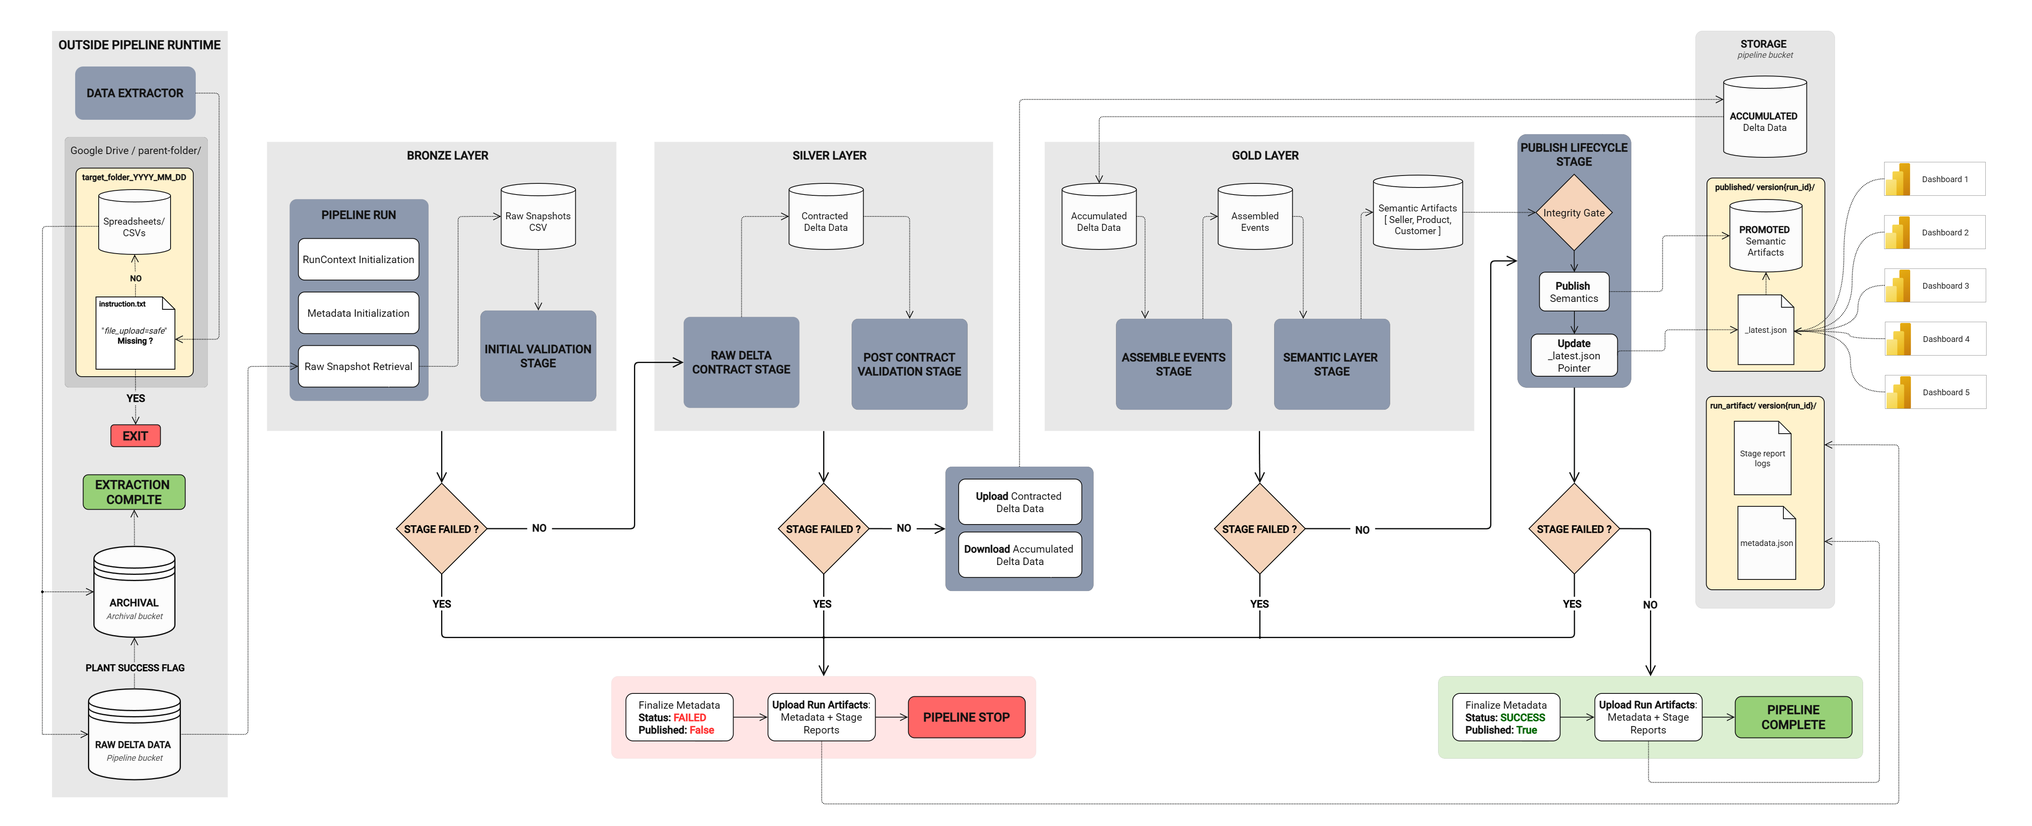
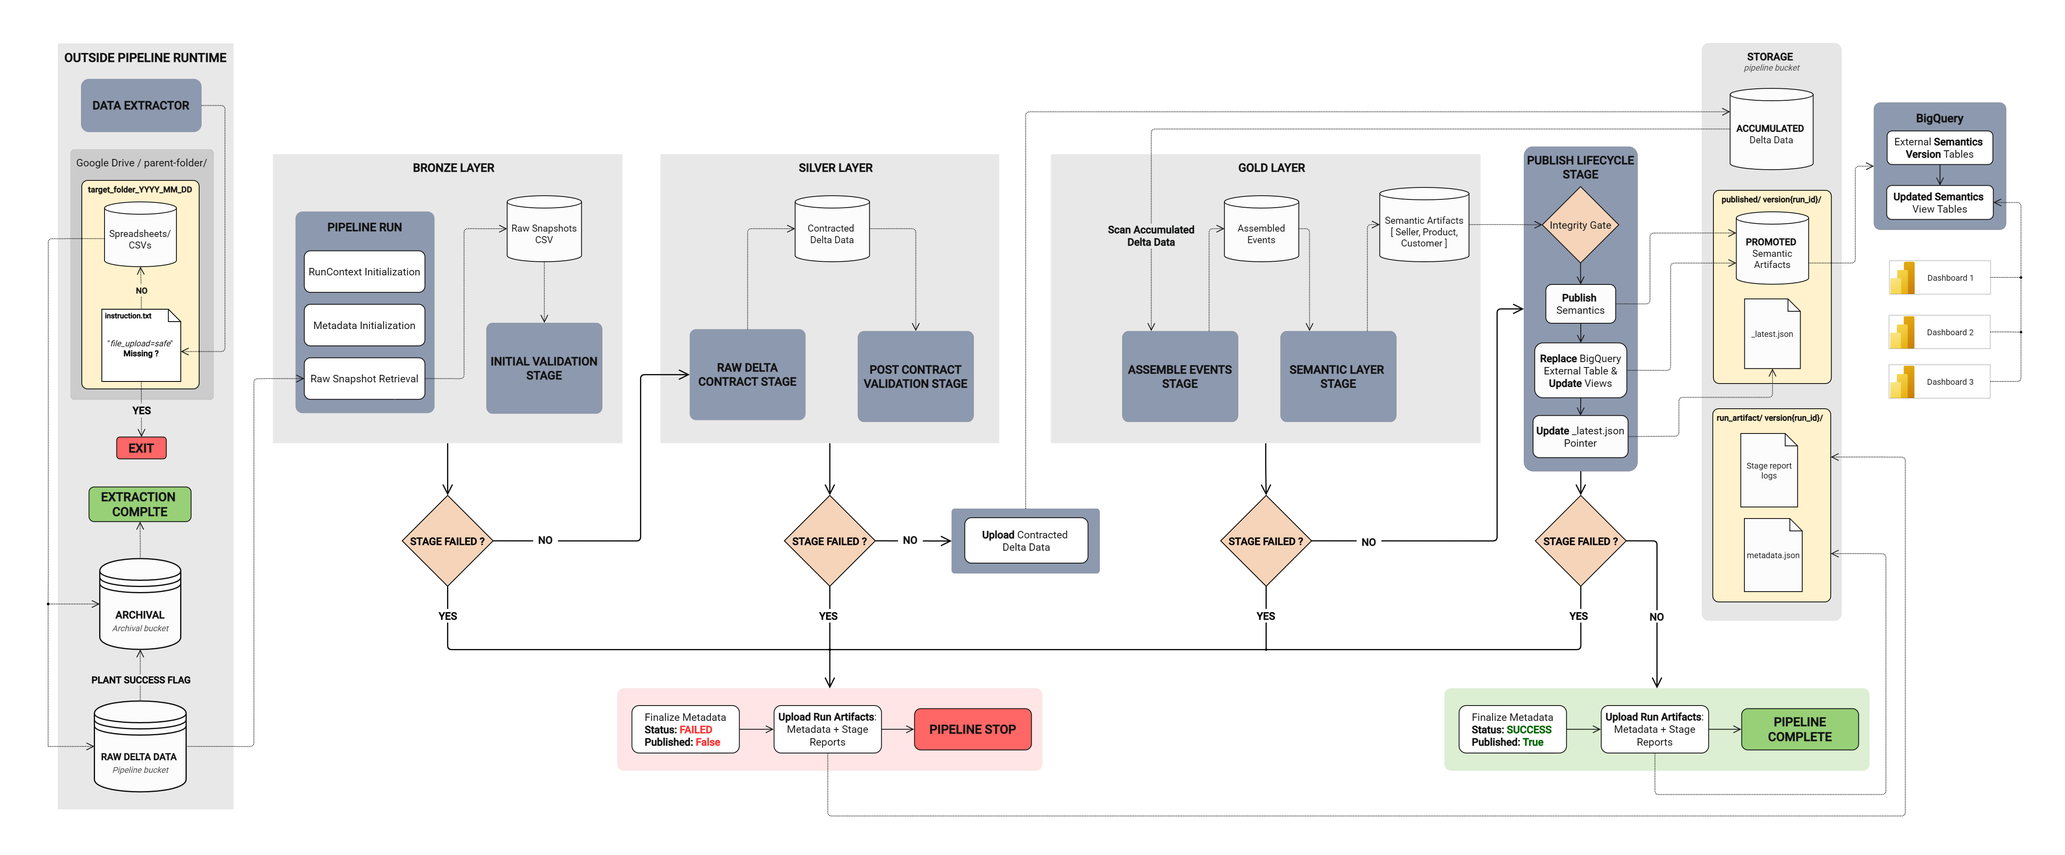
docs: align project documentation and benchmarks with new pipeline architecture

diff --git a/data_pipeline/semantic/semantic_executor.py b/data_pipeline/semantic/semantic_executor.py
@@ -168,9 +168,13 @@ def orchestrate_module(
 
         except FileExistsError as e:
             log_error(f"Unexpected table returned {table_name}: {e}", report)
+            report["status"] = "failed"
+            return False
 
         except Exception as e:
             log_error(f"Unexpected error processing {table_name}: {e}", report)
+            report["status"] = "failed"
+            return False
 
         finally:
             if "lf_frozen" in locals():

diff --git a/data_pipeline/assembly/assembly_executor.py b/data_pipeline/assembly/assembly_executor.py
@@ -145,6 +145,8 @@ def orchestrate_event_assembly(run_context: RunContext, report: Dict) -> bool:
 
     except Exception as e:
         log_error(f"Unexpected error processing event assembly: {e}", report)
+        report["status"] = "failed"
+        return False
 
     finally:
         if "lf_derived" in locals():

diff --git a/README.md b/README.md
@@ -16,9 +16,11 @@ This project solves that challenge by delivering a highly resilient, event-drive
 
 To eliminate the risk of cross-run data contamination and memory bloat, the pipeline employs a defensive state-management strategy where local compute environments are strictly temporary:
 * **Stateless Orchestration:** Every execution operates within an isolated, deterministic `run_id` workspace that is aggressively purged post-run.
+* **Primitive Integer Pipeline:** Optimizes high-volume joins by mapping 36-byte UUID strings to 4-byte UInt32 surrogates, reducing join-key memory overhead by ~16x and protecting the serverless memory ceiling.
 * **Cloud Sync & Purge:** After processing data into the Silver layer, the system syncs the output to Cloud Storage, purging the local environment.
-* **Historical Context Pull:** It then safely re-downloads the complete historical state for Gold layer aggregation, ensuring every run builds analytical models in a clean, untainted environment.
+* **Historical Context Pull:** It then safely streams the complete historical state for Gold layer aggregation, ensuring every run builds analytical models in a clean, untainted environment.
 * **Linear Gating:** Stages are strictly gated; failure at any tier (Ingestion, Contract, or Assembly) prevents downstream processing and ensures partial data is never promoted.
+* **BigQuery Atomic Swap:** Final semantic models are delivered via Authorized Views that atomically swap pointers to new data versions, providing zero-downtime connectivity for BI consumers.
 * **Resource-Optimized Compute:** Leverages a highly efficient lazy-evaluation engine to process large-scale datasets seamlessly within the strict memory constraints of serverless environments.
 
 ### Event-Driven Cloud Infrastructure
@@ -42,23 +44,35 @@ The pipeline does not just move data; it actively defends the analytical layer f
 
 **Silver (The Contract Layer)**
 * **Philosophy (Subtractive-Only Logic):** The pipeline never guesses, imputes, or "repairs" bad data. If a record violates the contract, it is explicitly dropped, and the loss is logged in the telemetry report.
+* **Primitive Integer Pipeline:** Optimizes downstream high-volume joins by mapping 36-byte UUID strings to 4-byte UInt32 surrogates, reducing join-key memory overhead by ~16x and ensuring the pipeline stays within serverless memory constraints.
 * **Role-Based Rules:** Tables are classified by role (`event_fact`, `transaction_detail`, `entity_reference`) and subjected to specific registry rules (e.g., deduplication, non-null assertions).
 * **Referential Integrity (Cascade Cleanup):** The pipeline tracks invalidated parent IDs (e.g., malformed `order_id`s) and propagates them downstream. If an order is dropped, all associated child records (like line items) are cascade-dropped to prevent orphan data from polluting joins.
 * **Schema Freeze:** Output files are strictly cast to predefined data types and projected to contain only approved columns before being written to Cloud Storage.
 
 **Gold (The Semantic Layer)**
-* **Purpose:** Business-ready Fact and Dimension tables modeled for entity-centric and cohort analysis (Customers, Sellers, Products).
-* **Strict Grain Enforcement:**
-    * **Temporal:** All fact tables are deterministically aligned to an ISO-Week grain (`W-MON`).
-    * **Entity:** The engine validates that Dimension tables contain exactly one row per `Entity_ID`, and Fact tables contain exactly one row per `(Entity_ID, order_year_week)`.
-* **Lineage Integrity:** The Semantic builder aggressively checks that the assembled data belongs to a single `run_id`. Cross-run data contamination triggers a terminal failure, preventing poisoned data from ever reaching production.
+* **Purpose:** High-fidelity analytical modeling through advanced integration and entity-centric aggregation. The Gold layer is partitioned into two distinct stages to maintain a strict separation between integration logic and business metrics.
+* **Stage I: Assembly (The Analytical Backbone)**
+    * **Role:** Integrates normalized relational tables (`orders`, `items`, `payments`) into a unified, analytical "Event" dataset.
+    * **Invariants:** Guaranteed 1:1 grain per `order_id_int`. It performs analytical flattening and calculates fulfillment lead times while enforcing referential integrity (e.g., purging orders without items).
+    * **Dimension Extraction:** Generates strictly deduplicated reference tables for Customers and Products, ensuring a single source of truth for entity attributes.
+* **Stage II: Semantic (The Business Logic Engine)**
+    * **Role:** Transforms unified order-grain events into specialized Fact and Dimension modules tailored for cohort and entity-centric analysis (Sellers, Customers, Products).
+    * **Strict Grain Enforcement:**
+        * **Temporal:** All fact tables are deterministically aligned to an ISO-Week grain (`W-MON`).
+        * **Entity-Fact:** Strictly 1 row per `(Entity_ID, order_year_week)`.
+        * **Entity-Dim:** Strictly 1 row per `Entity_ID`.
+* **Technical Invariants:**
+    * **Integer Key Optimization:** Both stages leverage the Primitive Integer Pipeline for grouping and joins, maintaining a constant memory profile by avoiding string-based hash tables.
+    * **Schema Freeze:** Both stages output files are strictly cast to predefined data types and projected to contain only approved columns
 
 ### Validation Gates & Deployment Integrity
 
 * **Dual-Pass Validation Strategy:**
     * **Initial Validation (Raw Gate):** The orchestrator evaluates raw snapshots. At this stage, `warnings` (like duplicate IDs or nulls) are tolerated and passed down to the Contract Stage for subtractive cleanup. Only fatal structural errors abort the run.
     * **Post-Contract Revalidation (Silver Gate):** After contract rules are applied, the system re-runs validation. In this phase, `warnings` are escalated to fatal. Because the contract stage guarantees a clean schema, any remaining warnings trigger a terminal `RuntimeError`, halting the pipeline immediately to prevent downstream corruption.
-* **Atomic Publishing Lifecycle:** The pipeline protects the Gold layer by writing intermediate analytical models to isolated temporary directories during computation. Only when *all* semantic modules successfully finish processing does the system execute an atomic publish via `latest_version.json` pointer updates, guaranteeing that partial or incomplete data is never served to dashboards.
+* **Atomic Publishing Lifecycle:** 
+    * **Staged Execution (Isolated Buffer):** The pipeline protects the Gold layer by writing intermediate analytical models to isolated temporary directories during computation. Only when all semantic modules successfully finish processing does the system execute a multi-system atomic publish.
+    * **Atomic Deployment (BigQuery View Swap):** This multi-system swap redirects BigQuery Authorized Views to fresh External Tables and updates the latest_version.json manifest, ensuring BI tools like Power BI always query complete, validated datasets without downtime.
 * **Comprehensive Telemetry:**
     * **End-to-End Traceability:** A single `run_id` is propagated through all raw snapshots, metadata logs, and published artifacts to provide absolute lineage tracking.
     * **Resilient Logging:** Even in the event of a fatal crash, the orchestrator's `finally` block guarantees that partial logs and stage reports are synced back to cloud storage before the local workspace is purged, ensuring debuggability.
@@ -69,58 +83,58 @@ The pipeline is explicitly engineered to process massive datasets within the rig
 
 ### GCP Stress-Test Metrics (Scaling Efficiency)
 
-| 18M Snapshot (8GiB / 2 vCPU) | 36M Snapshot (16GiB / 4 vCPU) |
-| :---: | :---: |
-| ![engine-performance-8gb](/assets/screenshots/engine-performance-8gb-2cpu.png) | ![engine-performance-16gb](/assets/screenshots/engine-performance-16gb-4cpu.png) |
+| 40M Snapshot (8GB / 4 vCPU) with mounted temporary disk|
+| :---: |
+| ![engine-performance-8gb](/assets/screenshots/engine-performance-8gb-4cpu.png) |
 
-> Benchmark data: [`18m_stats_log.csv`](/assets/benchmarks/polars/18mrows_dataset_stats_log.csv) and [`36m_stats_log.csv`](/assets/benchmarks/polars/36mrows_dataset_stats_log.csv)
+> Benchmark data: [`40m_stats_log.csv`](/assets/benchmarks/polars/40mrows_dataset_stats_log.csv)
+> Dataset : [`Dataset Information`](/data/README.md)
 
-| Metric | 18M Rows (8GB / 2 vCPU) | 36M Rows (16GB / 4 vCPU) |
-| :--- | :--- | :--- |
-| **Throughput (Processing)** | ~116,000 Rows / Second | ~220,000 Rows / Second |
-| **Total Runtime (Wall-Clock)** | 02m 34s | 02m 43s |
-| **Memory Tax (Fixed)** | ~1.5 GiB | ~1.5 GiB |
-| **Effective Data Headroom** | ~6.5 GiB | ~14.5 GiB |
+| Metric | Data | 
+|:---|:---|
+| Dataset |~40 Million Rows / ~5.3 GB Parquet|
+| Provision Spec | 8 GB RAM / 4 vCPU |
+| Efficiency (Processing) | ~307k Rows / Second |
+| Total Runtime (Wall-Clock) | 130 Seconds |
 
-*   **Near-Linear Performance Scaling:** Doubling the compute and dataset size results in only a 9-second increase in wall-clock time, effectively doubling the throughput as the Polars engine saturates the additional vCPUs.
-*   **Predictable Capacity:** Identifying the "Memory Tax" (OS/IO overhead) allows for precise resource governance, ensuring jobs never fail due to unpredictable Signal 9 (OOM) events.
+*   **Maximized Memory Density:** Enabled by the **Primitive Integer Pipeline**, mapping 36-byte UUID strings to 4-byte UInt32 keys shrunk join-key memory overhead by ~16x. This allowed a ~5.34GB analytical model (40M rows) to easily process entirely within the 8GB RAM limit
+*   **Near-Linear Performance Scaling:** The Polars engine saturates the available vCPUs, yielding ultra-high throughput (307k rows/s) during streaming execution.
 *   **Zero-Idle Economics:** 100% serverless execution ensures zero billable time during idle periods, significantly reducing the Total Cost of Ownership (TCO) compared to dedicated cluster solutions.
 
 ### Cost Efficiency & Free-Tier
 
-The pipeline's processing speed allows for a full analytical rebuild of 36M rows while remaining comfortably within the **GCP Cloud Run Free Tier** (180k vCPU-sec, 360k GiB-sec). This means a small-to-mid-sized organization can run this production-grade pipeline multiple times a day with **zero compute costs.**
+The pipeline's processing speed allows for a full analytical rebuild of 40M rows while remaining comfortably within the **GCP Cloud Run Free Tier** (180k vCPU-sec, 360k GB-sec). This means a small-to-mid-sized organization can run this production-grade pipeline multiple times a day with **zero compute costs.**
 
-| Compute Provision | Dataset | vCPU-Seconds / Run | GiB-Seconds / Run | Monthly Free-Tier Runs |
+| Compute Provision | Dataset | vCPU-Seconds / Run | GB-Seconds / Run | Monthly Free-Tier Runs |
 | :--- | :--- | :--- | :--- | :--- |
-| **8 GiB / 2 vCPU** | ~18m rows | 308 | 1,232 | **~292 Runs / Month** |
-| **16 GiB / 4 vCPU** | ~36m rows | 652 | 2,608 | **~138 Runs / Month** |
-| **32 GiB / 8 vCPU** | ~72m rows | 1,304 | 5,216 | **~69 Runs / Month** |
+| **8 GB / 4 vCPU** | ~40M rows | 520 | 1,040 | **~346 Runs / Month** |
+| **16 GB / 6 vCPU** | ~80M rows | 1040 | 2,773 | **~129 Runs / Month** |
+| **32 GB / 8 vCPU** | ~160M rows | 2,080 | 8,320 | **~43 Runs / Month** |
 
-> *Calculations based on verified benchmarks. Even at the highest 32GiB tier, the pipeline can execute a full state rebuild twice daily for $0*
+> *Calculations based on verified benchmarks. Even at the highest 32GB tier, the pipeline can execute a full state rebuild over 43 times per month for $0 within the GCP free tier.*
 
 ### Measurement Methodology
 *   **Performance Profiling:** Captured from production telemetry via the pipeline's native `run_duration` metadata, calculating the precise delta between `started_at` and `completed_at` timestamps.
-*   **Memory Utilization:** Monitored via an integrated [`psutil.virtual_memory().used`](/assets/benchmarks/polars/README.md) profiling implementation to verify the actual resource footprint and confirm the physical ceiling for 8GiB/16GiB provision.
-*   **Throughput Efficiency:** Leverages Polars streaming evaluation to maintain high throughput and minimize CPU idle time during GCS I/O, providing a significant performance advantage over traditional eager-loading engines.
+*   **Memory Utilization:** Monitored via an integrated [`psutil.virtual_memory().used`](/assets/benchmarks/polars/README.md) profiling implementation to verify the actual resource footprint and confirm the physical ceiling for 8GB provision.
 
 ### **Scaling Roadmap: From Serverless to Enterprise Lakehouse**
 
 To ensure the architecture survives the transition from millions to billions of rows, the pipeline is designed to evolve across three validated scaling paths. This roadmap prioritizes cost-efficiency at low volumes while providing a clear architectural pivot for enterprise-scale workloads.
 
-#### **Stage 1: Temporal Sharding (Vertical Efficiency)**
-*   **Strategy:** Refactor the `Assemble` stage to iterate through **yearly batch partitions** while `Semantic` stage to **streams output directly** to a GCS staging location.
-*   **Publish Evolution:** Moves to a **Partitioned Atomic Swap**. Yearly shards are streamed directly to a staged GCS version prefix. The `Integrity Gate` validates cloud-side completeness before the `latest_version.json` pointer is updated.
-*   **Trade-off:** **Latency vs. Memory.** Significantly increases total wall-clock time due to repeated I/O cycles, but allows 32GiB instances to process 100M+ rows by isolating join-intensity to specific temporal shards.
+#### **Stage 1: Incremental Delta Propagation (Efficiency Pivot)**
+*   **Strategy:** Transition from a "Full Rebuild" batch model to a **Stateless Delta Propagation** model using Polars' streaming engine to process only newly arrived `.parquet` deltas.
+*   **Optimization:** Leverages the existing BigQuery View infrastructure to perform "Last-Mile" merging of incremental updates with the historical state, eliminating the need for redundant full-table re-reads.
+*   **Trade-off:** **Operational Complexity vs. Compute Cost.** Reduces GCS I/O and CPU time by 80-90% for daily runs, but requires more sophisticated state-tracking in the metadata layer.
 
-#### **Stage 2: Incremental Delta Architecture (Event-Driven)**
-*   **Strategy:** Transition from a "Full Rebuild" batch model to a **Stateless Delta Propagation** model, processing only active deltas.
-*   **Publish Evolution:** Moves to a **Checkpoint-based Commit**. Folder-based versioning is replaced by an atomic merge into the Gold layer. The "Pointer" evolves into a metadata watermark signifying data freshness to downstream consumers.
-*   **Trade-off:** **Simplicity vs. Scale.** Eliminates memory constraints and reduces runtime costs, but sacrifices easy "point-in-time" folder recovery. Requires "Last-Mile" deduplication logic (e.g., SQL Views) for downstream consumers.
+#### **Stage 2: Event-Driven Real-Time Streaming (Latency Pivot)**
+*   **Strategy:** Integrate GCS Pub/Sub notifications with **Cloud Run streaming sinks** to trigger sub-minute validation and assembly.
+*   **Architecture:** Moves from a daily batch schedule to a continuous ingestion loop where each file upload triggers a micro-run. The BigQuery Atomic View Swap acts as the transactional boundary, ensuring dashboards always see the latest validated data without waiting for the daily window.
+*   **Trade-off:** **Responsiveness vs. Throughput.** Provides near real-time insights but increases the frequency of small I/O operations.
 
 #### **Stage 3: BigQuery "Engine-as-a-Service" (The Enterprise Pivot)**
-*   **Strategy:** Offload the `Assemble` and `Semantic` compute layers entirely to **BigQuery (ELT Pattern)**.
-*   **Publish Evolution:** Moves to a **Atomic View Redirection**. The Python "Gatekeeper" builds semantics in a staging dataset and runs SQL-driven integrity checks. Publication is achieved by an atomic swap of a BigQuery Authorized View, replacing the file-based pointer system.
-*   **Trade-off:** **Cost vs. Capability.** Provides an infinite scaling ceiling and removes all local infrastructure bounds, but introduces higher cost-per-query overhead and requires transitioning from local Parquet files to managed cloud storage.
+*   **Strategy:** Offload the high-volume `Assemble` and `Semantic` compute layers entirely to **BigQuery (ELT Pattern)** using SQL-driven logic.
+*   **Scalability:** Provides an infinite scaling ceiling (Petabyte-scale) and removes all local infrastructure bounds, while the Python pipeline acts as an "Air-Traffic Controller" managing integrity gates and view swaps.
+*   **Trade-off:** **Scalability vs. Vendor Lock-in.** Simplifies the compute environment but moves the primary cost from serverless RAM to BigQuery slot usage.
 
 
 ## Observability & Alerting
@@ -135,7 +149,7 @@ The custom Cloud Monitoring dashboard tracks granular operational metrics to pro
 **Pipeline Job Metrics:**
 1. **Workflow Execution Traffic:** Measures the volume of finished pipeline runs.
 2. **Execution Status Ratio:** Tracks the count of `SUCCESS` vs. `FAILED` runs to monitor overall reliability.
-3. **Memory Allocation Bottlenecks:** Plots the actual Cloud Run memory usage against a hardcoded 4GB horizontal threshold to visualize proximity to OOM exhaustion.
+3. **Memory Allocation Bottlenecks:** Plots the actual Cloud Run memory usage against a hardcoded 8GB horizontal threshold to visualize proximity to OOM exhaustion.
 
 **Extractor Job Metrics:**
 1. **Drive Extractor Latency:** Tracks the billable instance time of the extractor job (the most accurate proxy for API usage cost, as the extractor utilizes the Drive API continuously during runtime).

diff --git a/data/README.md b/data/README.md
@@ -1,21 +1,32 @@
 # Data & Synthetic Benchmarks
 
-This directory serves as the local state provider for the pipeline when executing in a non-cloud environment. It mimics the structure of the Google Cloud Storage (GCS) buckets, allowing for high-fidelity local simulation and performance benchmarking.
+This directory serves as the local state provider for the pipeline when executing in a non-cloud environment. It mimics the structure of the Google Cloud Storage (GCS) buckets.
 
 ## Synthetic Dataset
-To replicate the high-volume environment described in the [GCP Stress-Test Metrics (Scaling Efficiency)](/README.md#gcp-stress-test-metrics-scaling-efficiency) section, you can download the 36M-row synthetic dataset here: [**Kaggle Dataset Link**](https://www.kaggle.com/datasets/melvidabryan/e-commerce-synthetic-dataset)
+To replicate the high-volume environment described in the [GCP Stress-Test Metrics (Scaling Efficiency)](/README.md#gcp-stress-test-metrics-scaling-efficiency) section, you can download the 40M-row synthetic dataset here: [**Kaggle Dataset Link**](https://www.kaggle.com/datasets/melvidabryan/e-commerce-synthetic-dataset)
 
->*Note: This upload contains the **Contracted Version** of the dataset. The original "Raw" state—totaling approximately 24GB of unrefined CSVs was omitted to prioritize transfer efficiency.*
+> *Note: This upload contains the **Contracted Version** of the dataset. The original "Raw" state, totaling approximately ~26GB of unrefined CSVs was omitted to prioritize transfer efficiency.*
 
-### File Structure & Purpose
-The dataset is divided into two primary directories to facilitate different stages of pipeline testing:
+## File Structure & Purpose
+The dataset is divided into three primary directories to facilitate different stages of pipeline testing:
 
 | Directory | Files | Description |
 | :--- | :--- | :--- |
-| `contracted/` | 110 files | **Production-Scale Test:** The full 36M row dataset (~4.04 GB) formatted to strict enterprise schema requirements. |
-| `raw/` | 5 files | **Delta Sample (Validation):** Small-scale samples (~10k rows each) representing **daily incoming deltas**. These files are intentionally "noisy" to exhibit the full range of injected data quality errors. |
+| `contracted/` | 125 files | **Production-Scale Test:** The full 36M row dataset (~5.34 GB) formatted to strict schema requirements. |
+| `id_mapping/customer_id/` | 1 file | **Metadata Registry:** Central lookup mapping Customer UUIDs to Uint32 surrogate keys.  |
+| `id_mapping/order_id/` | 40 files | **Metadata Registry (Sharded):** Fragmented lookup (40M+ keys) to test high-cardinality ID resolution. |
+| `id_mapping/product_id/` | 1 file | **Metadata Registry:**  Central lookup mapping Product UUIDs to Uint32 surrogate keys. |
+| `id_mapping/seller_id/` | 1 file |  **Metadata Registry:** Central lookup mapping Seller UUIDs to Uint32 surrogate keys. |
+| `raw/` | 5 files | **Delta Sample (Validation):** Small-scale samples (~20k rows each) representing **daily incoming deltas**. These files are intentionally "noisy" to exhibit the full range of injected data quality errors. |
 
-### Included Tables
+---
+
+### ID Mapping & Surrogate Key Simulation
+The id_mapping/ directory acts as a simulated metadata registrar for surrogate key generation. The pipeline utilizes these registries to resolve raw source UUIDs into memory-efficient Uint32 identifiers while enforcing global deduplication and referential integrity.
+
+To benchmark ***[`mapping`](/data_pipeline/contract/id_registrar.py) throughput and memory footprint***, the order_id registry is partitioned into 40 sharded files (1M rows each). This fragmentation simulates the ingestion pressure of high-cardinality transactional data (40M+ unique keys) on serverless compute. Dimension-level registries (Customer, Product, Seller) remain unfragmented, as their lower cardinality is insufficient to trigger the resource-exhaustion thresholds required for these performance benchmarks.
+
+## Included Tables
 
 The dataset provides a complete relational snapshot of an e-commerce ecosystem:
 
@@ -28,7 +39,8 @@ The dataset provides a complete relational snapshot of an e-commerce ecosystem:
 ## Local Execution Setup
 1.  Extract the downloaded dataset archive.
 2.  Copy the `raw/` and `contracted/` directories into this `data/` folder.
-3.  The `RunContext` manager is configured to strictly recognize `.parquet` and `.csv` extensions; all other file types are ignored to prevent ingestion noise.
+3.  Use the commented out local path in [`RunContext.create()`](../data_pipeline/shared/run_context.py#L62).
+4.  The `RunContext` manager is configured to strictly recognize `.parquet` and `.csv` extensions; all other file types are ignored to prevent ingestion noise.
 
 **Execute the local pipeline:**
 ```
